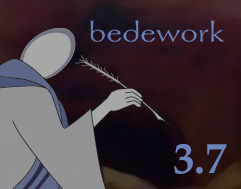
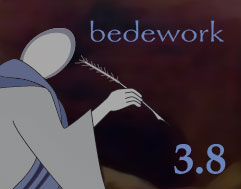
Web clients: - public themes can display underlying calendar structure in explorer view - references to www.bedework.org updated to www.jasig.org/bedework, etc - some clean up and prep for 3.8 release

Changed region(s): [[0.8423, 0.7407, 0.9585, 0.9259], [0.4647, 0.2116, 0.4938, 0.2381]]

diff --git a/deployment/resources/bedework/index.html b/deployment/resources/bedework/index.html
@@ -18,7 +18,7 @@
       </div>
       <div id="content">
         <h1>
-          Welcome to Bedework!
+          Welcome to Bedework 3.8!
         </h1>
         <div id="clientSelect">
           <fieldset id="clientPublic">
@@ -112,7 +112,7 @@
               Password: <em>bedework</em>
               <p>
                 See also:
-                <a href="http://www.bedework.org/trac/bedework/wiki/BedeworkManual/v3.6/UserGuide">
+                <a href="https://wiki.jasig.org/pages/viewpage.action?pageId=48596935">
                   How to configure a CalDAV calendar client against the Bedework server (e.g. Apple's iCal or Mozilla Lightening)
                 </a>
               </p>
@@ -155,8 +155,8 @@
       </div>
       <div id="footer">
         <p>
-          Bedework is maintained under a "BSD-style"
-          <a href="http://www.bedework.org/bedework/update.do?artcenterkey=6">
+          Bedework is maintained under an Apache 2
+          <a href="http://www.jasig.org/bedework/license">
             open source license
           </a>.
         </p>
@@ -164,32 +164,32 @@
     </div>
     <ul id="footMenu" class="menu">
       <li class="first">
-        <a href="http://www.bedework.org/bedework/setup.do">
+        <a href="http://www.jasig.org/bedework">
           overview
         </a>
       </li>
       <li class="none">
-        <a href="http://www.bedework.org/bedework/update.do?artcenterkey=2">
+        <a href="http://www.jasig.org/bedework/download">
           download
         </a>
       </li>
       <li class="none">
-        <a href="http://www.bedework.org/bedework/update.do?artcenterkey=36">
+        <a href="http://www.jasig.org/bedework/documentation">
           documentation
         </a>
       </li>
       <li class="none">
-        <a href="http://www.bedework.org/bedework/update.do?artcenterkey=37">
-          development
+        <a href="http://www.jasig.org/bedework/community">
+          community
         </a>
       </li>
       <li class="none">
-        <a href="http://www.bedework.org/bedework/update.do?artcenterkey=32">
+        <a href="http://www.jasig.org/bedework/about">
           about
         </a>
       </li>
       <li class="none">
-        <a href="http://www.bedework.org/bedework/update.do?artcenterkey=27">
+        <a href="http://www.jasig.org/bedework/mailing-lists">
           contact us
         </a>
       </li>
